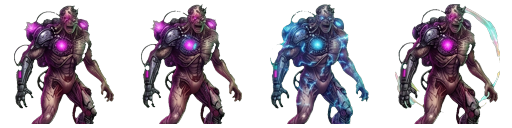
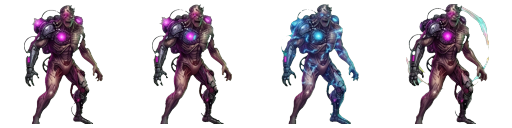
feat(hiveswarm): eldritch sprite, cyber legs fix, praetorian animations, drone visible, balance
- Eldritch Sponge sprite wired (kind 1, idle/ooze loop) via new auto-frame slicer.
- Cyber-Mutant legs no longer cut off (region extended to full idle-row height).
- Praetorian boss now ANIMATED: idle loop / attack swing (during telegraph) / death
  sequence (praet_idle/attack/death strips).
- Drone Escort perk: drones now big glowing orbiting diamonds (were tiny hidden squares).
- Balance: 1 bullet per soldier capped at 15 (fixes lag); +10% bullet damage (10% easier);
  every level starts with 1 soldier; Psychoid bigger (r28).

diff --git a/index.html b/index.html
@@ -241,7 +241,7 @@ addEventListener('pointerdown', unlockAudio); addEventListener('keydown', unlock
 // ---------- run flow ----------
 function startRun(mode='campaign') {
   G.mode=mode;G.loop=0;G.state='play';G.level=mode==='endless'?10:1;G.levelT=0;
-  G.squad = BAL.start.squad + G.meta.squad * 4; G.weapon = Math.min(BAL.start.weapon + G.meta.weapon, 4);
+  G.squad = 1; G.weapon = Math.min(BAL.start.weapon + G.meta.weapon, 4);   // always start with 1 soldier
   G.bio = 0; G.bioNeed = 25; G.perks = {}; G.kills = 0; G.boss = null;G.streak=G.streakT=G.streakPeak=G.streakAward=G.chipHeal=G.shieldT=G.shieldHits=0;
   G.droneT = G.orbitalT = G.laserT = 0; G.laserSeq = 0;
   G.hitStop = G.flashT = G.squadFlash = G.bossKillT = G.vehicleT = 0; G.vehicleCD = 4;
@@ -256,7 +256,7 @@ function nextLevel() {
   if (G.level > CFG.levels) { G.state = 'win'; G.endElapsed=(performance.now()-G.runStart)/1000; save(); return; }
   G.state = 'shop'; save();
 }
-function levelStart() { G.state = 'play'; G.levelT = 0; G.boss = null; seed = 1000 + G.level * 777; gates.length = 0; }
+function levelStart() { G.state = 'play'; G.levelT = 0; G.boss = null; seed = 1000 + G.level * 777; gates.length = 0; G.squad = 1; }  // always start each level with 1 soldier
 function endlessScore(){return Math.floor(G.kills*10+G.runBosses*500+G.maxSquad*2+G.loop*2000+
   Math.max(0,G.credits-G.creditsStart)*.25+(G.weapon+1)*100);}
 async function attemptRevive(){if(G.reviveUsed)return;let ok=false;try{ok=!!(window.PSDK&&await PSDK.rewarded());}catch(_){}
@@ -333,7 +333,7 @@ function fire(dt) {
   fireT = 1 / rof;
   AUDIO.sample('gun');                               // one gun report per volley (throttled by rof)
   // EXACTLY one bullet per soldier owned (20 soldiers → 20 bullets). Cap 200 for perf.
-  const cols = Math.min(G.squad, 200);
+  const cols = Math.min(G.squad, 15);   // 1 bullet per soldier, capped at 15 streams (perf: 10 men=10, 100 men=15)
   for (let c = 0; c < cols; c++) {
     const b = bullets.alloc(); if (!b) return;
     const off = (c - (cols - 1) / 2) * Math.min(9, 360 / Math.max(1, cols));   // firing line stays inside the road
@@ -343,7 +343,7 @@ function fire(dt) {
     b.vx = (CFG.W / 2 - b.x) * 0.55 + rr(-1, 1) * w.spread * 40;               // slight jitter per shot
     b.vy = -640;
     b.vis = true;                                    // EVERY soldier's bullet is visible now
-    b.dmg = w.dmg * (1 + 0.08 * G.meta.dmg) * (w.n > 1 ? w.n * 0.6 : 1);       // multi-pellet weapons fold power into 1 bullet
+    b.dmg = w.dmg * 1.1 * (1 + 0.08 * G.meta.dmg) * (w.n > 1 ? w.n * 0.6 : 1);  // +10% damage (10% easier); multi-pellet folded in
     b.r = 3 + w.dmg; b.aoe = 0; b.grenade = false;
   }
 }
@@ -883,17 +883,19 @@ const IMGS={};
 // ---------- animated enemy sprite strips (sliced by slice_enemies.py, 128px square cells) ----------
 const ANIM={};
 (function(){
-  const V='?v=5';                                 // bump to bust the browser cache when sprites change
+  const V='?v=6';                                 // bump to bust the browser cache when sprites change
   const load=(src,frames,fps)=>{const im=new Image();im.onload=()=>im.ok=true;im.onerror=()=>im.ok=false;im.src=src+V;return {img:im,frames,fps};};
   ANIM[0]=load('assets/xeno_walk.png',4,8);       // biomorph swarmer — walk cycle
-  ANIM[2]=load('assets/cyber_idle.png',4,5);      // cyber-mutant — malfunction idle
+  ANIM[1]=load('assets/eldritch_ooze.png',4,4);   // eldritch sponge — idle/ooze
+  ANIM[2]=load('assets/cyber_idle.png',4,4);      // cyber-mutant — malfunction idle (slower, matches sheet)
   ANIM[3]=load('assets/xenoptera_fly.png',4,9);   // xenoptera (winged) — flight loop
   ANIM[4]=load('assets/subterra_scan.png',5,6);   // subterra burrower — scan cycle
   ANIM[5]=load('assets/psychoid_swim.png',4,5);   // cephalo-psychoid — swim cycle
   const heroLoad=(src)=>{const im=new Image();im.onload=()=>im.ok=true;im.onerror=()=>im.ok=false;im.src=src+V;return im;};
-  IMGS.praet=heroLoad('assets/praetorian_hero.png');   // mini-boss (overrides old static)
   IMGS.queen=heroLoad('assets/queen_hero.png');        // alien queen boss
   IMGS.soldierAnim=heroLoad('assets/soldier_fire.png');// squad rear-view fire loop (4 frames)
+  // Praetorian mini-boss animations: idle loop / attack / death sequence
+  window.PRAET={idle:load('assets/praet_idle.png',4,4), attack:load('assets/praet_attack.png',5,10), death:load('assets/praet_death.png',5,9)};
 })();
 function drawEnemyAnim(e,px,py,size){          // draw current animated frame; returns true if drawn
   const a=ANIM[e.kind]; if(!a||!a.img.ok) return false;
@@ -1188,8 +1190,17 @@ function drawSquad() {
   if (G.squad > CFG.squadCapVisible) { cx.fillStyle = '#fff'; cx.font = '900 20px Segoe UI';
     cx.textAlign = 'center'; cx.fillText('SQUAD x' + G.squad, G.px, y0 + 55); }
   const drones = 2 * (G.perks['Drone Escort'] || 0);
-  for (let i = 0; i < drones; i++) { const a = G.t * 2.4 + i * 6.283 / drones;
-    cx.fillStyle = '#7ff'; cx.fillRect(G.px + Math.cos(a) * 54 - 5, y0 + Math.sin(a) * 25 - 5, 10, 10); }
+  for (let i = 0; i < drones; i++) {                    // glowing escort drones orbiting above the squad
+    const a = G.t * 2.6 + i * 6.283 / drones, dx = G.px + Math.cos(a) * 82, dy = (y0 - 30) + Math.sin(a) * 34;
+    cx.save(); cx.shadowColor = '#0ff'; cx.shadowBlur = 14; cx.fillStyle = '#8ff';
+    cx.translate(dx, dy); cx.rotate(a * 2);
+    cx.beginPath(); cx.moveTo(0, -9); cx.lineTo(8, 0); cx.lineTo(0, 9); cx.lineTo(-8, 0); cx.closePath(); cx.fill();  // diamond body
+    cx.fillStyle = '#fff'; cx.beginPath(); cx.arc(0, 0, 2.5, 0, 7); cx.fill();  // core
+    cx.restore();
+    // thruster glow underneath
+    cx.save(); cx.globalCompositeOperation = 'lighter'; cx.globalAlpha = .5; cx.fillStyle = '#0cf';
+    cx.beginPath(); cx.arc(dx, dy + 10, 4, 0, 7); cx.fill(); cx.restore();
+  }
 }
 function drawBossAttack(B){const tele=B.attack==='acid'?.9:.75,active=B.attack==='sweep'?.65:.45;
   cx.save();cx.globalAlpha=B.attackClock<tele?.3:.78;if(B.attack==='acid'){cx.fillStyle='#7f3';cx.fillRect(B.attackX-42,0,84,CFG.H);}
@@ -1206,7 +1217,20 @@ function drawBossHud(B){
 }
 function drawBoss() {
   const B = G.boss;
-  const bossImg = B.queen ? IMGS.queen : IMGS.praet;  // Alien Queen (final) vs Praetorian guardian
+  // Praetorian: full animation — death sequence / attack swing / idle loop
+  if (!B.queen && window.PRAET && PRAET.idle.img.ok) {
+    let a = PRAET.idle, f;
+    if (B.dead && PRAET.death.img.ok) { a = PRAET.death;
+      f = Math.min(a.frames - 1, Math.floor((1 - Math.max(0, G.bossKillT) / 0.4) * a.frames)); }
+    else if (B.attack && PRAET.attack.img.ok) { a = PRAET.attack; f = Math.floor(B.attackClock * a.fps) % a.frames; }
+    else { f = Math.floor(B.t * a.fps) % a.frames; }
+    const cs = a.img.height, breathe = B.dead ? 1 : 1 + 0.03 * Math.sin(B.t * 2);
+    const ph = 300 * breathe, pw = ph * (cs / cs);
+    cx.save(); cx.shadowColor = '#a4f'; cx.shadowBlur = 26;
+    cx.drawImage(a.img, f * cs, 0, cs, cs, B.x - ph / 2, B.y - ph / 2, ph, ph); cx.restore();
+    drawBossHud(B); return;
+  }
+  const bossImg = B.queen ? IMGS.queen : IMGS.praet;  // Alien Queen (final)
   if (bossImg && bossImg.ok) {
     const breathe = 1 + 0.03 * Math.sin(B.t * 2);
     const ph = (B.queen ? 420 : 300) * breathe, pw = ph * (bossImg.width / bossImg.height);   // scale-ref sizes

diff --git a/slice_enemies.py b/slice_enemies.py
@@ -79,6 +79,39 @@ def cell_sprite(cell_rgba, keyfn, largest=True):
     return img
 
 
+def auto_strip(sheet, region, keyfn, out_name, take=None, cell=128, minw=40):
+    """Auto-detect frames in a row band by background gaps (for irregular sheets).
+    region=(x0,y0,x1,y1) fractional; take=list of frame indices to keep (None=all)."""
+    im = Image.open(fr"{SRC}\{sheet}").convert("RGBA")
+    W, H = im.size
+    x0, y0, x1, y1 = int(region[0]*W), int(region[1]*H), int(region[2]*W), int(region[3]*H)
+    band = np.array(im.crop((x0, y0, x1, y1)))
+    bg = keyfn(band)
+    colhas = (~bg).sum(axis=0) > (band.shape[0] * 0.06)      # columns with real content
+    # find runs of content
+    runs, s = [], None
+    for x in range(len(colhas)):
+        if colhas[x] and s is None: s = x
+        elif not colhas[x] and s is not None:
+            if x - s >= minw: runs.append((s, x)); s = None
+            else: s = None
+    if s is not None and len(colhas) - s >= minw: runs.append((s, len(colhas)))
+    sprites = []
+    for idx, (cs, ce) in enumerate(runs):
+        if take is not None and idx not in take: continue
+        cell_img = Image.fromarray(band[:, cs:ce])
+        sp = cell_sprite(cell_img, keyfn, True)
+        if sp: sprites.append(sp)
+    if not sprites:
+        print("NO SPRITES for", out_name, "(runs=", len(runs), ")"); return
+    strip = Image.new("RGBA", (cell*len(sprites), cell), (0,0,0,0))
+    for i, sp in enumerate(sprites):
+        s2 = sp.copy(); s2.thumbnail((cell-8, cell-8))
+        strip.paste(s2, (i*cell+(cell-s2.width)//2, (cell-s2.height)//2), s2)
+    strip.save(fr"{OUT}\{out_name}")
+    print(f"{out_name}: {len(sprites)}/{len(runs)} frames -> {strip.size}")
+
+
 def make_strip(sheet, region, cols, keyfn, frames, out_name, cell=128, largest=True):
     """region=(x0,y0,x1,y1) fractional box holding the frame ROW(s); cols=frames across."""
     im = Image.open(fr"{SRC}\{sheet}").convert("RGBA")
@@ -107,14 +140,20 @@ def make_strip(sheet, region, cols, keyfn, frames, out_name, cell=128, largest=T
 make_strip(E+"Xenoid.png", (0.0, 0.055, 1.0, 0.30), 4, key_green, [0, 1, 2, 3], "xeno_walk.png")
 # Psychoid (kind 5): 4x2 grid, swim loop = row 0 frames 0-3
 make_strip(E+"Psychoid.png", (0.0, 0.06, 1.0, 0.50), 4, key_green, [0, 1, 2, 3], "psychoid_swim.png")
-# Cyber Mutant (kind 2): top idle row = 4 frames across the top
-make_strip(E+"Cyber Mutant.png", (0.0, 0.015, 1.0, 0.185), 4, key_green, [0, 1, 2, 3], "cyber_idle.png")
+# Cyber Mutant (kind 2): top idle row = 4 frames — taller band so the LEGS aren't cut off
+make_strip(E+"Cyber Mutant.png", (0.0, 0.012, 1.0, 0.27), 4, key_green, [0, 1, 2, 3], "cyber_idle.png")
+# Eldritch Sponge (kind 1): auto-detect top-row frames, take idle + ooze (first 4) as the loop
+auto_strip(E+"Eldritch Sponge.png", (0.0, 0.05, 1.0, 0.52), key_green, "eldritch_ooze.png", take=[0,1,2,3])
 # Subterra (burrower, kind 4): scanning row = 5 frames (head weaving); gray-keyed
 make_strip(E+"Subterra.png", (0.0, 0.365, 1.0, 0.55), 5, key_green_flood, [0, 1, 2, 3, 4], "subterra_scan.png")
 # Xenoptera (winged, kind 3): flight loop = top row 4 frames (green bg + green core -> flood)
 make_strip(E+"Xenoptera.png", (0.0, 0.06, 1.0, 0.34), 4, key_green_flood, [0, 1, 2, 3], "xenoptera_fly.png")
 # Player soldier (rear view): shooting loop = top row 4 frames (dark bg -> flood)
 make_strip("Player soilders.png", (0.0, 0.045, 1.0, 0.33), 4, key_dark, [0, 1, 2, 3], "soldier_fire.png")
+# Praetorian mini-boss ANIMATIONS (green bg + green eyes -> flood): idle / attack / death rows
+auto_strip(E+"Mini boss Praetorian.png", (0.0, 0.015, 1.0, 0.205), key_green_flood, "praet_idle.png",   cell=192, minw=120)
+auto_strip(E+"Mini boss Praetorian.png", (0.0, 0.225, 1.0, 0.395), key_green_flood, "praet_attack.png", cell=192, minw=120)
+auto_strip(E+"Mini boss Praetorian.png", (0.0, 0.775, 1.0, 0.99),  key_green_flood, "praet_death.png",  cell=192, minw=120)
 # Bosses: one clean hero frame each (green bg + green core -> flood)
 make_strip("Enemies\\Mini boss Praetorian.png", (0.0, 0.06, 0.5, 0.55), 1, key_green_flood, [0], "praetorian_hero.png", cell=192)
 make_strip("Enemies\\Alien  Queen.png", (0.30, 0.10, 0.70, 0.95), 1, key_green_flood, [0], "queen_hero.png", cell=224)
